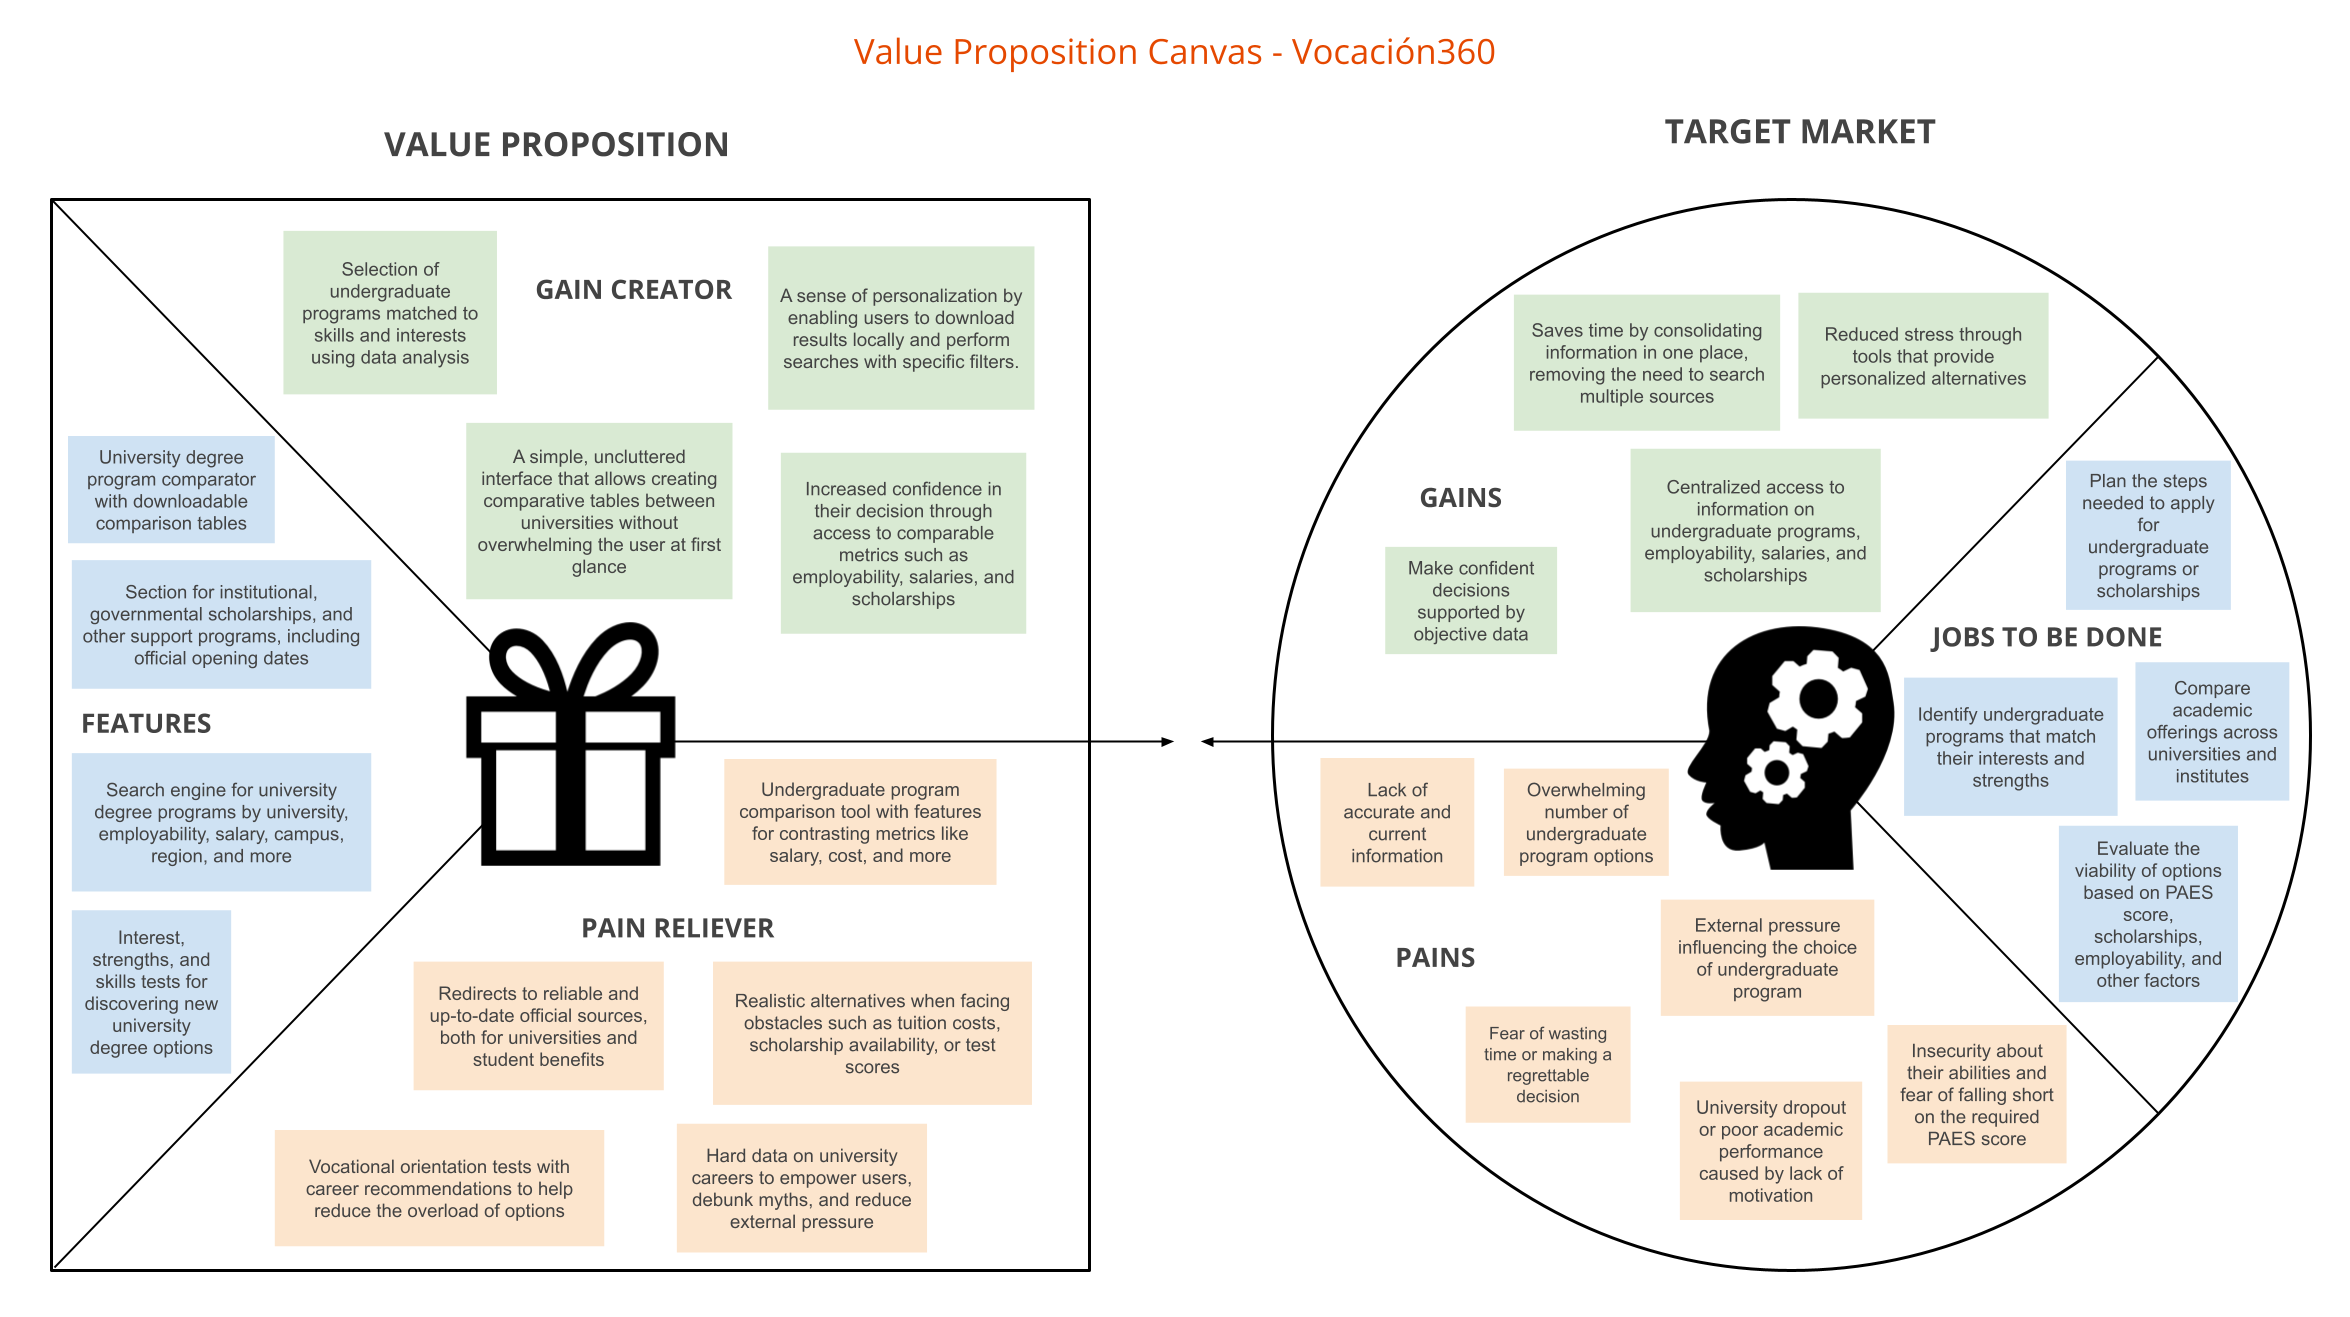
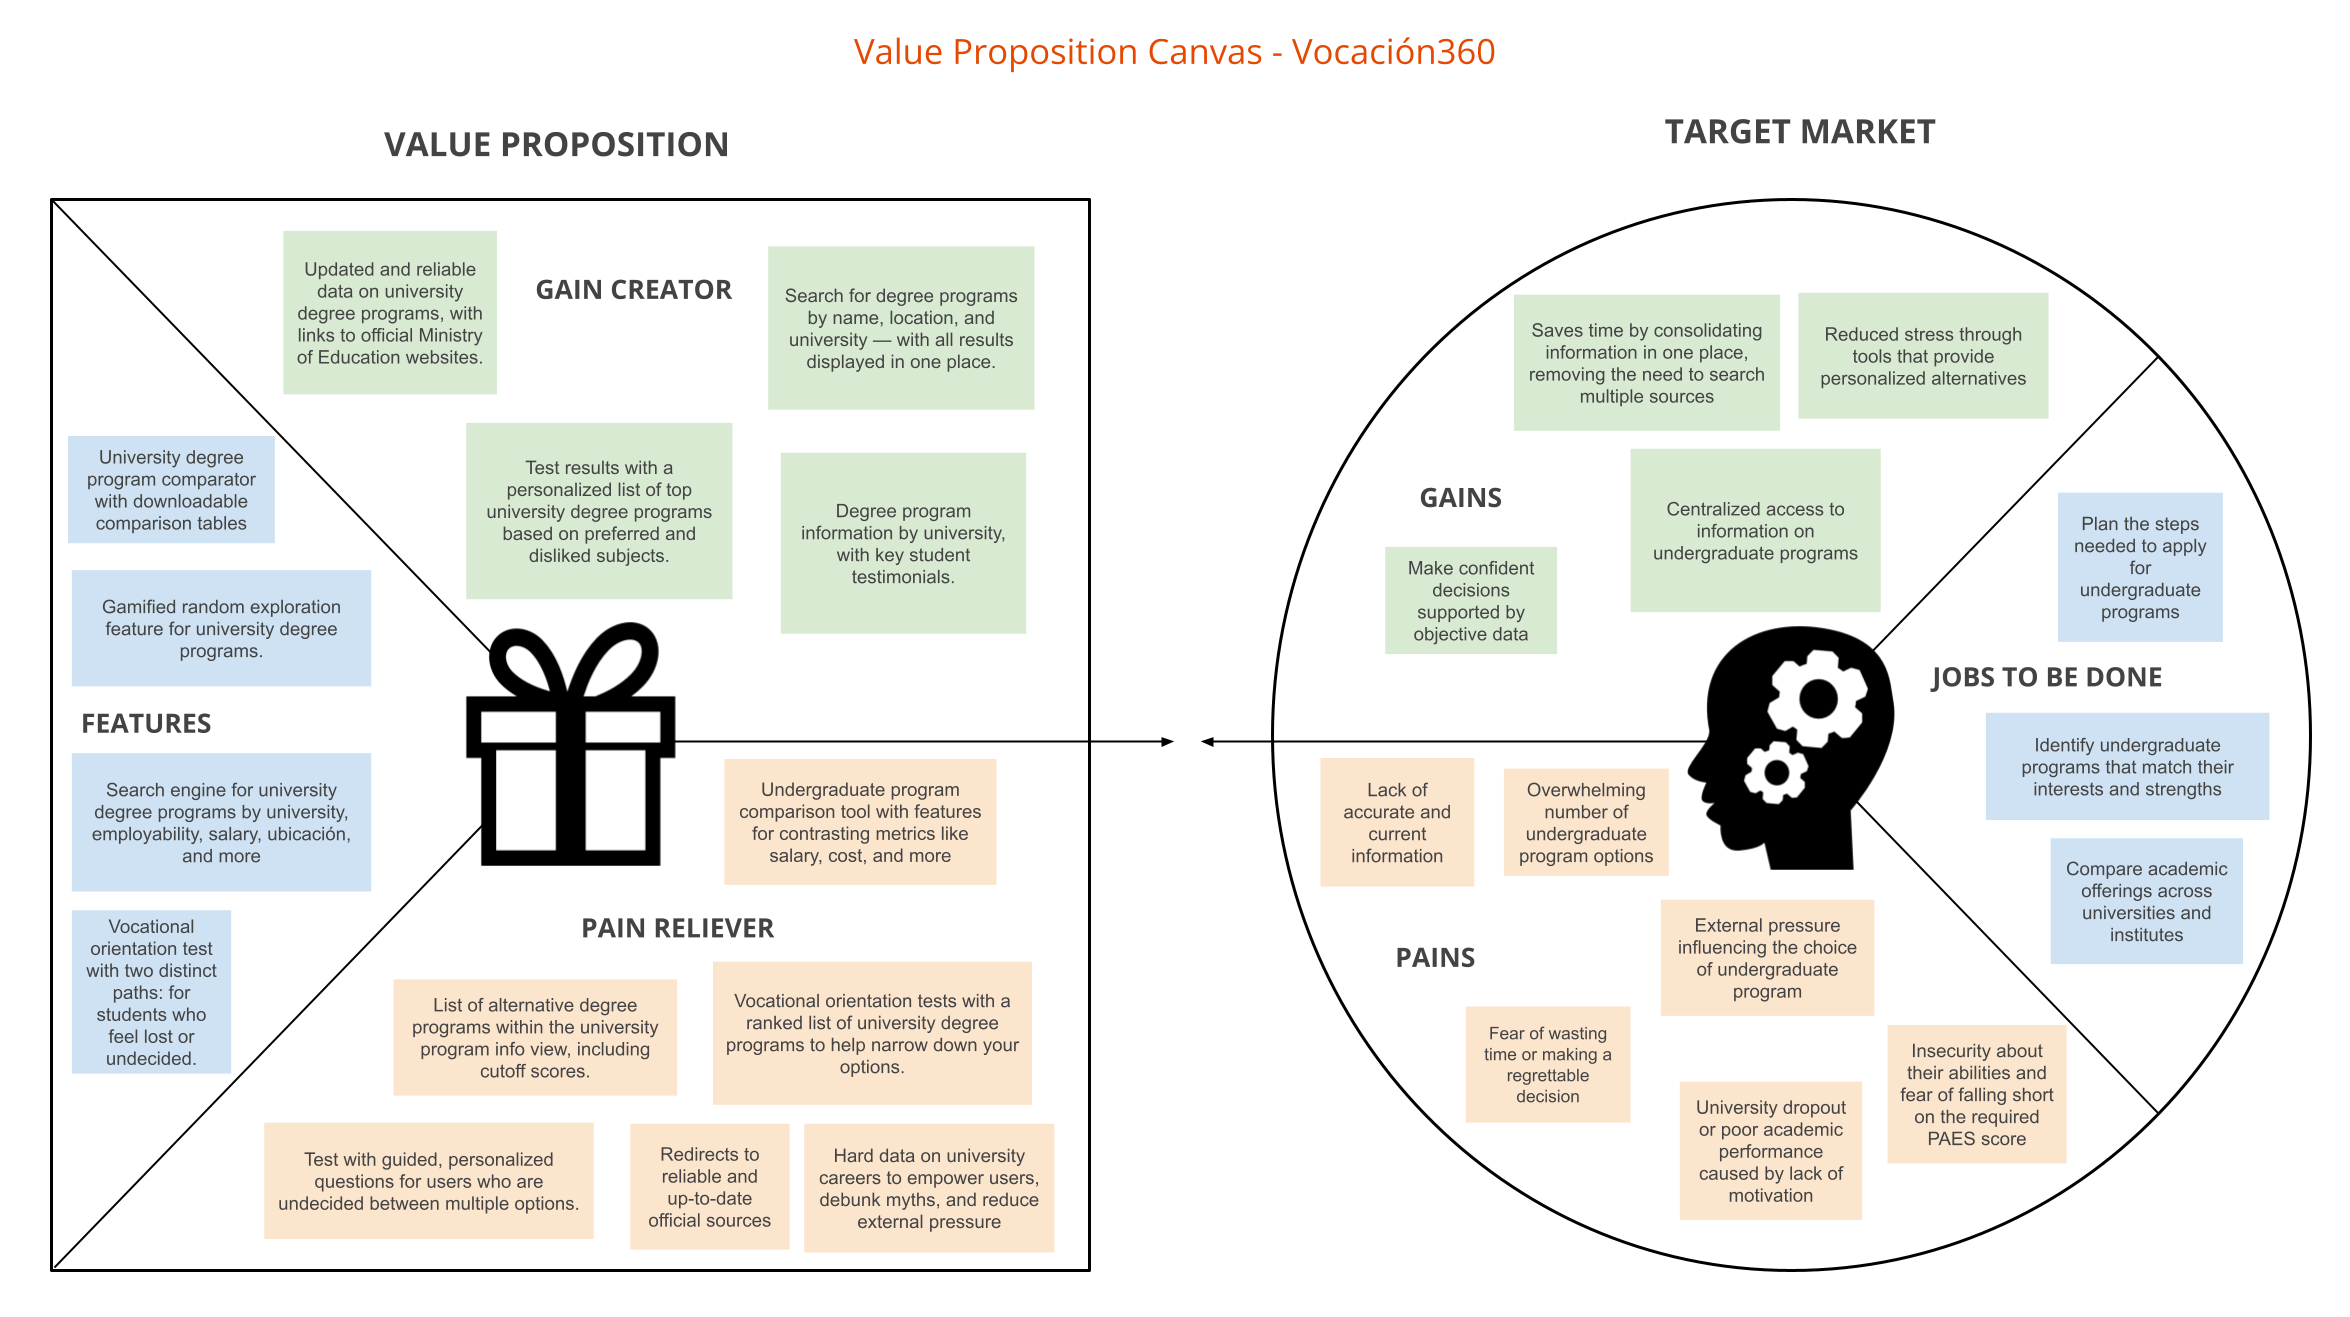
docs: add narrative section to Value Proposition Canvas and update assets
- Add storytelling narrative to the introduction section
- Update the Value Proposition Canvas PNG asset

diff --git a/README.md b/README.md
@@ -24,9 +24,15 @@ User Experience Design for Vocación360: A Vocational Guidance Platform for High
 
 ## 1. Introduction
 
+> *What if I’m just wasting my time?*
+> *What if I disappoint my family with my decision?*
+> *Will I earn enough to make a living?*
+
+In a survey conducted with 40 students at Escuela Amanecer, **52.5%** stated that external opinions directly influence their vocational decisions, and **75%** said they are not aware of any online tools for academic program guidance. Platforms like *MiFuturo* or Ministry of Education websites were not mentioned, revealing a lack of access to key information and a **strategic opportunity**.
+
 High school students in Chile face significant challenges when choosing their academic and professional paths. Existing vocational guidance platforms offer fragmented information across multiple websites, with overwhelming interfaces and technical language that creates unnecessary barriers.
 
-Vocación360 addresses these issues by providing a comprehensive, user-friendly application designed specifically for students making degree programs decisions. Our platform centralizes three essential tools: personalized vocational tests, clear degree programs information with comparison capabilities, and organized scholarship resources—all within an intuitive interface that simplifies the decision-making process.
+Vocación360 offers a comprehensive and intuitive solution to support students in choosing their university degree program. Our platform brings together three key tools: vocational orientation tests, random exploration of degree programs, and access to clear, comparative, and up-to-date information on undergraduate degree programs.
 
 Through careful application of UX design principles and student-centered research, we've created a solution that transforms what is typically an anxiety-producing experience into a manageable journey of self-discovery and informed choice.
 
@@ -48,13 +54,25 @@ Carlos Pradenas - Presenter
 
 ### 3.1. Value Proposition Canvas
 
-In a survey conducted with 40 students at Escuela Amanecer, **52.5%** stated that external opinions directly influence their vocational decisions, and **75%** said they are not aware of any online tools for academic program guidance. Platforms like *MiFuturo* or Ministry of Education websites were not mentioned, revealing a lack of access to key information and a **strategic opportunity**.
+We used the Value Proposition Canvas to align these needs with our solution. While our target audience is high school students, they represent very diverse realities: from those who already have some academic options in mind to those who feel completely lost about their future. There are also students who distrust vocational tests, lacking the motivation or patience to complete them.
 
-We used the **Value Proposition Canvas** to align these needs with our proposed solution. In response to insecurity about their abilities and social pressure, we aim to **empower students** through tests that assess strengths, interests, and skills, along with objective data on salaries and employability to challenge myths passed on by their social circles.
+**Vocación360** aims to tackle a complex issue from multiple dimensions: social, emotional, and technical. While there’s a clear market opportunity, there are also major challenges, given the absence of standout websites in this field. In response, our proposal is shaped around features carefully designed to foster trust and connection:
 
-Students' main fear is not just making the wrong choice, but **having no choice at all** due to low PAES scores. Therefore, the solution must go beyond functionality and directly address their real pains and needs. **Vocación360** is an all-in-one platform that provides free access to scholarship information, vocational tests, academic program data, and university comparison tools, including metrics like employability, average salary, and accreditation. It does not require registration, and results are downloaded locally so students can keep their personal journey.
+------
+
+- **Striking aesthetic with a defined visual identity:**
+   An appealing and functional design can be the difference between engaging and retaining a user—or losing them forever. Vocación360 embraces a modern, immersive aesthetic with a color palette of purples, oranges, and yellows, evoking depth, energy, and modernity.
+- **Vocational guidance test adapted to different situations:**
+   Designed for students who are unsure about their future, the test offers two distinct paths: one for those who feel completely lost, and another for those choosing between two options. The questions aim to provide realistic recommendations, considering both the subjects you’re good at and those you don’t enjoy. For example, *we won’t recommend civil engineering if you hate math!*
+- **Gamified degree program exploration:**
+   **Don’t like tests? Find them too long or unreliable but still want to explore new options? No problem!** Vocación360 includes a random exploration feature: by clicking on a die, you’ll see cards with different degree programs visually represented. You decide the pace and the direction.
+   *Note: We’re not encouraging you to choose your future at random—but we do want to help you broaden your perspective and explore options you might have never considered.*
+- **Personalized degree program explorer and comparator:**
+   While several sites provide information about degree programs, Vocación360 stands out for its visual clarity and intuitive structure. It allows you to filter options by location, tuition cost, or average salary, using cards that summarize the most relevant information. It also includes a comparator that lets you analyze two or more degree programs side by side, visually highlighting the key differences.
+
 
 📊 You can view the full survey responses [here](https://docs.google.com/spreadsheets/d/18C8Lrk0pwEsjByS-7obqHJb23tWlxP_VGB2JUes502Y/edit?usp=sharing).
+
 
 ![Value Proposition Canvas](./assets/value-prop-canvas.png)
 
